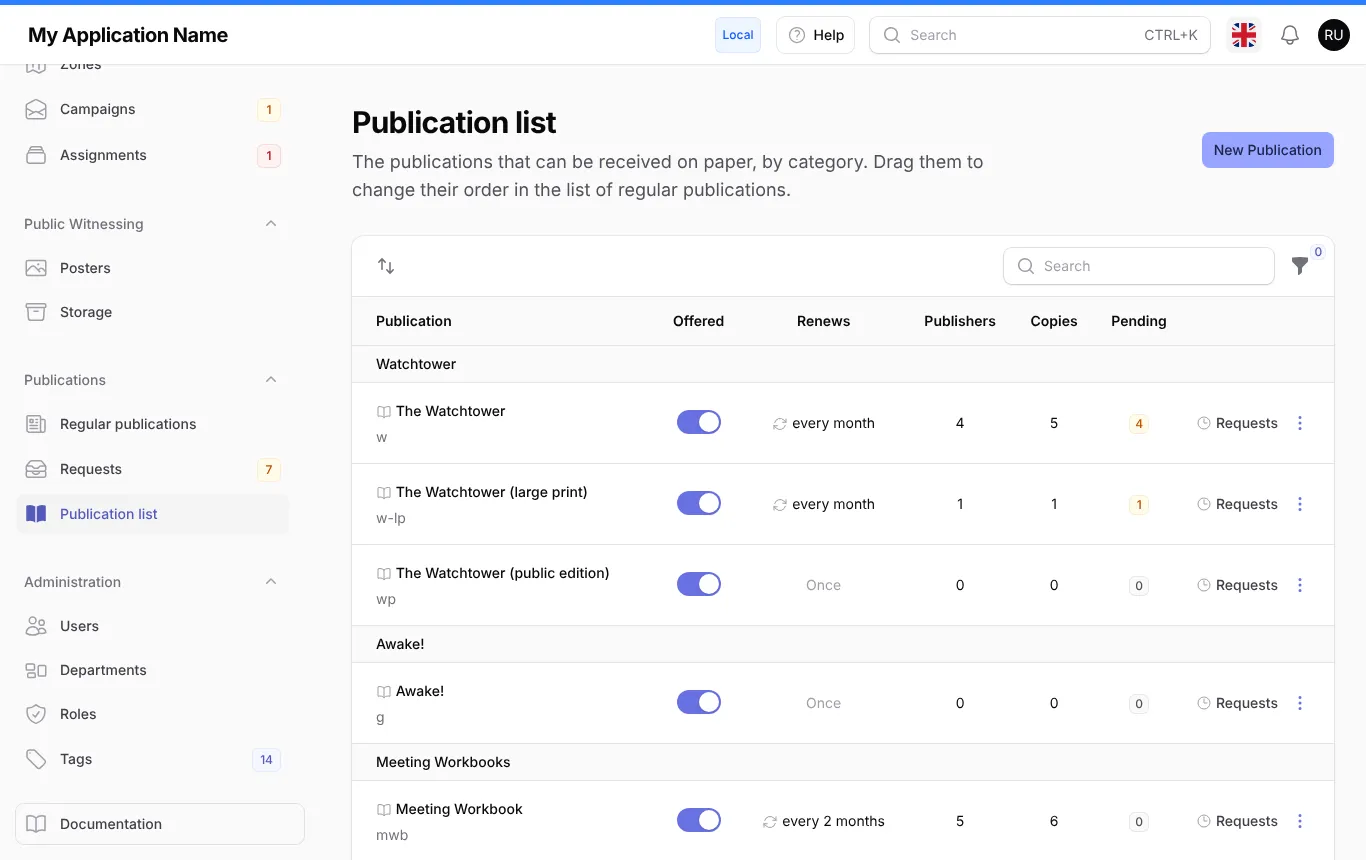
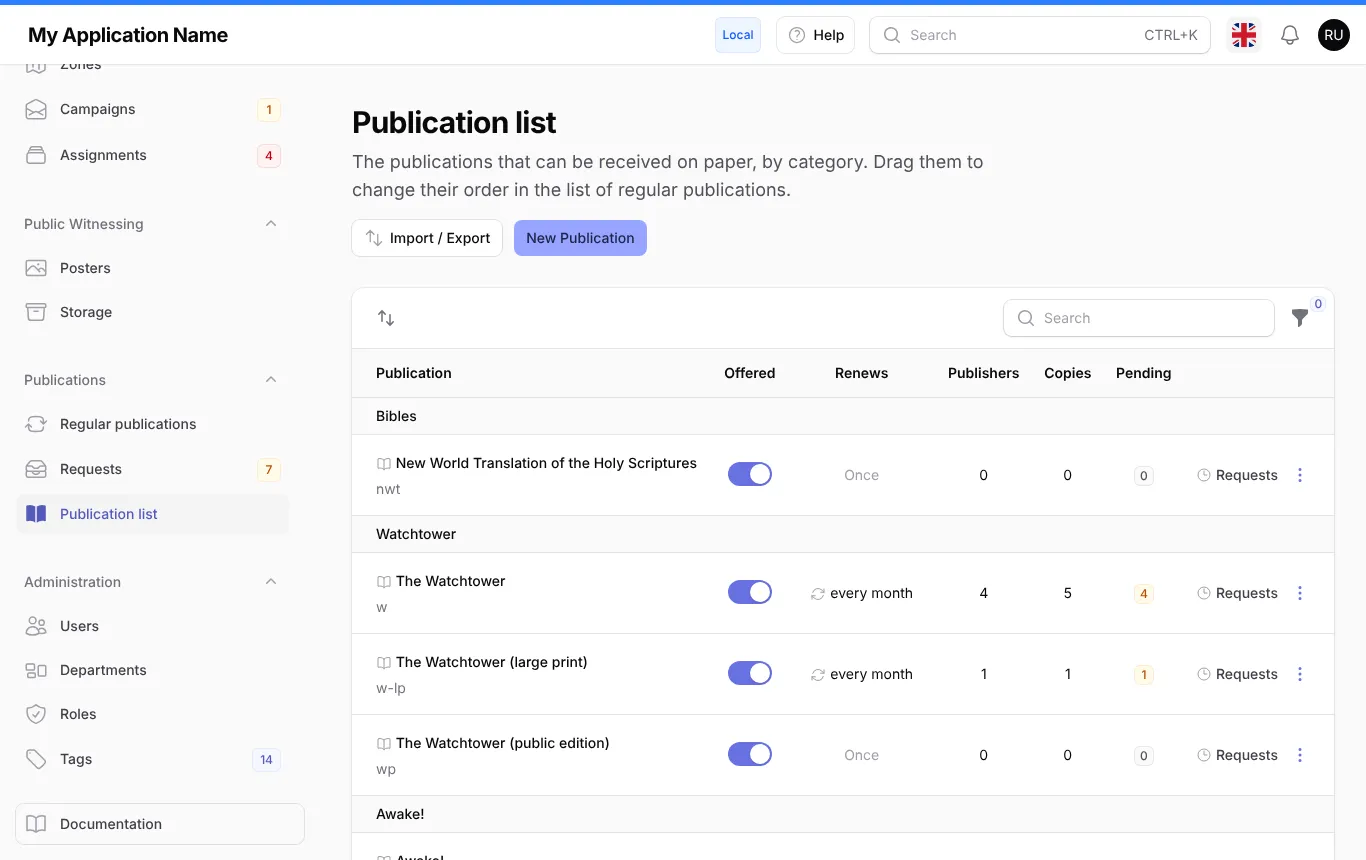
feat(publications): add the Bible to the list
The New World Translation (nwt, as in the publication index), in the
Bibles category, requested once.

diff --git a/tests/Feature/PublicationsTest.php b/tests/Feature/PublicationsTest.php
@@ -24,11 +24,12 @@ beforeEach(function () {
     $this->actingAs($this->member);
 });
 
-test('the migrations create the periodicals, offered, with their code, category and renewal', function () {
+test('the migrations create the Bible and the periodicals, offered, with their code, category and renewal', function () {
     $publications = Publication::query()->ordered()->get();
 
-    expect($publications->pluck('code')->all())->toBe(['w', 'w-lp', 'wp', 'g', 'mwb', 'mwb-lp'])
+    expect($publications->pluck('code')->all())->toBe(['nwt', 'w', 'w-lp', 'wp', 'g', 'mwb', 'mwb-lp'])
         ->and($publications->pluck('category')->all())->toBe([
+            PublicationCategory::Bibles,
             PublicationCategory::Watchtower,
             PublicationCategory::Watchtower,
             PublicationCategory::Watchtower,
@@ -36,7 +37,7 @@ test('the migrations create the periodicals, offered, with their code, category 
             PublicationCategory::MeetingWorkbooks,
             PublicationCategory::MeetingWorkbooks,
         ])
-        ->and($publications->pluck('renewal_months')->all())->toBe([1, 1, null, null, 2, 2])
+        ->and($publications->pluck('renewal_months')->all())->toBe([null, 1, 1, null, null, 2, 2])
         ->and($publications->every(fn (Publication $publication): bool => $publication->is_active))->toBeTrue();
 });
 
@@ -101,7 +102,7 @@ test('the publications are found by their name in any language', function () {
     Livewire::test(ManagePublications::class)
         ->searchTable('Atalaya')
         ->assertCanSeeTableRecords(Publication::query()->whereIn('code', ['w', 'w-lp', 'wp'])->get())
-        ->assertCanNotSeeTableRecords(Publication::query()->whereIn('code', ['g', 'mwb', 'mwb-lp'])->get());
+        ->assertCanNotSeeTableRecords(Publication::query()->whereIn('code', ['nwt', 'g', 'mwb', 'mwb-lp'])->get());
 });
 
 test('a periodical can be deleted like any other publication, and is not created again', function () {
@@ -114,7 +115,7 @@ test('a periodical can be deleted like any other publication, and is not created
     $this->artisan('migrate')->assertSuccessful();
 
     expect(Publication::query()->where('code', 'g')->exists())->toBeFalse()
-        ->and(Publication::query()->count())->toBe(5);
+        ->and(Publication::query()->count())->toBe(6);
 });
 
 test('each language of the name shows the example in that language', function () {
@@ -141,7 +142,7 @@ test('the code of a publication is required and unique', function () {
         ->callMountedAction()
         ->assertHasFormErrors(['code' => 'unique']);
 
-    expect(Publication::query()->count())->toBe(6);
+    expect(Publication::query()->count())->toBe(7);
 });
 
 test('the renewal is shown only for the publications received regularly', function () {

diff --git a/database/migrations/2026_11_19_100309_create_publications_tables.php b/database/migrations/2026_11_19_100309_create_publications_tables.php
@@ -8,9 +8,9 @@ use Illuminate\Support\Facades\Schema;
 return new class extends Migration
 {
     /**
-     * The periodicals offered on paper to a new installation, with their name in every language of the application
-     * (written here, so that this migration always inserts the same rows), their code, category and how often they
-     * renew (in months). They can be changed, turned off or deleted later like any other publication.
+     * The Bible and the periodicals offered on paper to a new installation, with their name in every language of the
+     * application (written here, so that this migration always inserts the same rows), their code, category and how
+     * often they renew (in months). They can be changed, turned off or deleted later like any other publication.
      *
      * The codes are the ones of the index of the publications ("Abbreviations of Publication Titles").
      *
@@ -19,6 +19,12 @@ return new class extends Migration
      * @var list<array{name: array<string, string>, code: string, category: string, renewal_months: ?int}>
      */
     private const DEFAULT_PUBLICATIONS = [
+        [
+            'name' => ['en' => 'New World Translation of the Holy Scriptures', 'it' => 'Traduzione del Nuovo Mondo delle Sacre Scritture', 'es' => 'Traducción del Nuevo Mundo de las Santas Escrituras'],
+            'code' => 'nwt',
+            'category' => 'bibles',
+            'renewal_months' => null,
+        ],
         [
             'name' => ['en' => 'The Watchtower', 'it' => 'La Torre di Guardia', 'es' => 'La Atalaya'],
             'code' => 'w',

diff --git a/CHANGELOG.md b/CHANGELOG.md
@@ -18,9 +18,9 @@ and this project adheres to [Semantic Versioning](https://semver.org/spec/v2.0.0
   ([#45](https://github.com/OpenCHelper/OpenCongregationHelper/pull/45)).
 - **Regular publications** (Publications): who receives publications on paper regularly, with the total copies to order.
   The publications, with their names in every language, code and category (books, tracts, ...), are managed in the
-  publication list, which starts with the periodicals already translated: The Watchtower (also large print and public
-  edition), Awake! and the Meeting Workbook (also large print). The list can be imported from and exported to a
-  spreadsheet ([#45](https://github.com/OpenCHelper/OpenCongregationHelper/pull/45)).
+  publication list, which starts with the Bible and the periodicals already translated: The Watchtower (also large print
+  and public edition), Awake! and the Meeting Workbook (also large print). The list can be imported from and exported to
+  a spreadsheet ([#45](https://github.com/OpenCHelper/OpenCongregationHelper/pull/45)).
 - **Publication requests** (Publications → Requests): when each publisher asked for a publication, until it is ordered
   (optional) and delivered, with a chart of the last 12 months and the history of each publisher and publication. The
   publications received regularly are requested again automatically every period, e.g. every month

diff --git a/docs/user-documentation/it/publications/periodicals.md b/docs/user-documentation/it/publications/periodicals.md
@@ -36,10 +36,10 @@ nuovo in seguito. Il pulsante **Richieste** apre lo storico delle sue richieste.
 ## L'elenco delle pubblicazioni
 
 Le pubblicazioni che si possono ricevere non sono fisse: apri **Pubblicazioni → Elenco pubblicazioni** per aggiungerle,
-rinominarle o eliminarle. L'elenco parte con i periodici, già tradotti in ogni lingua: *La Torre di Guardia* (anche a
-caratteri grandi e nell'edizione per il pubblico), *Svegliatevi!* e la *Guida per l'adunanza* (anche a caratteri
-grandi). Come ogni altra pubblicazione si possono modificare, disattivare o eliminare (una volta eliminati non vengono
-ricreati).
+rinominarle o eliminarle. L'elenco parte con la Bibbia (*Traduzione del Nuovo Mondo delle Sacre Scritture*) e i
+periodici, già tradotti in ogni lingua: *La Torre di Guardia* (anche a caratteri grandi e nell'edizione per il
+pubblico), *Svegliatevi!* e la *Guida per l'adunanza* (anche a caratteri grandi). Come ogni altra pubblicazione si
+possono modificare, disattivare o eliminare (una volta eliminati non vengono ricreati).
 
 ![Elenco pubblicazioni](/docs/user-documentation/it/publications/assets/publications.webp)
 

diff --git a/docs/user-documentation/en/publications/periodicals.md b/docs/user-documentation/en/publications/periodicals.md
@@ -36,9 +36,10 @@ their publications are no longer requested, but their history is kept and you ca
 ## The publication list
 
 The publications that can be received are not fixed: open **Publications → Publication list** to add, rename or remove
-them. The list starts with the periodicals, already translated in every language: *The Watchtower* (also in large
-print and the public edition), *Awake!* and the *Meeting Workbook* (also in large print). Like any other publication,
-they can be changed, turned off or deleted (a deleted one is not created again).
+them. The list starts with the Bible (*New World Translation of the Holy Scriptures*) and the periodicals, already
+translated in every language: *The Watchtower* (also in large print and the public edition), *Awake!* and the *Meeting
+Workbook* (also in large print). Like any other publication, they can be changed, turned off or deleted (a deleted one
+is not created again).
 
 ![Publication list](/docs/user-documentation/en/publications/assets/publications.webp)
 
